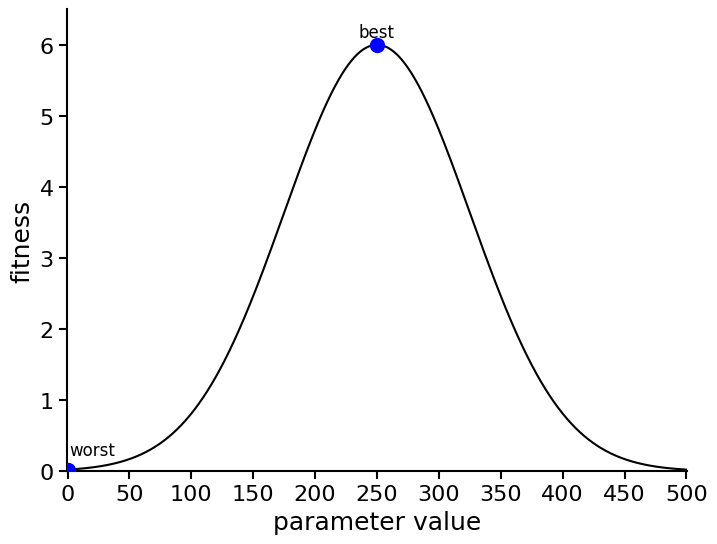
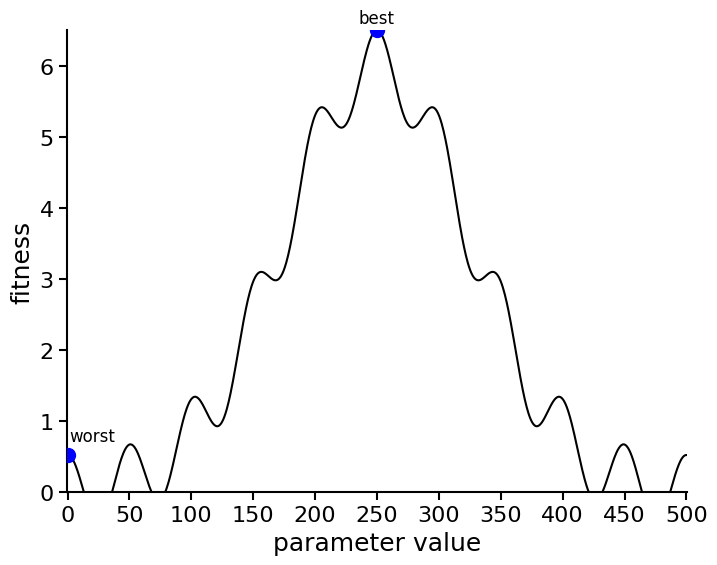
ガウス関数にコサインを混ぜた評価関数を定義

diff --git a/DrawFunc.py b/DrawFunc.py
@@ -135,6 +135,82 @@ def plot_gauss_func_two_peak():
     return
 
 
+def plot_gaussian_add_cosine():
+    # 1. パラメータの設定
+    mu = 250        # 平均 (μ)
+    sigma = 75      # 標準偏差 (σ)
+    f = 0.02         # 周波数
+    x_min, x_max = 0, 500  # 定義域 (x軸の範囲)
+    y_min, y_max = 0, 6    # 値域 (y軸の範囲)
+    
+    # ガウス関数のピーク（高さ）の設定
+    # 注意: 通常の確率密度関数のピークは約0.008と低いため、
+    # 指定された値域[0, 6]で見えるようにピークを6.0に設定します。
+    amplitude = 6.0 
+
+    # 2. データの生成
+    x = np.linspace(x_min, x_max, 1000)
+    
+    # ガウス関数の計算: f(x) = A * exp( - (x - μ)^2 / (2σ^2) )
+    y = amplitude * np.exp(-((x - mu)**2) / (2 * sigma**2)) + 0.5 * np.cos(2 * np.pi * f * x)
+
+    # 4. プロット設定
+    fig, ax = plt.subplots(figsize=(8, 6)) # fig, ax を取得するように変更
+    
+    # 4. 指定された点の計算 (x=250, x=0)
+    points_x = [250, 0]
+    points_y = [amplitude * np.exp(-((px - mu)**2) / (2 * sigma**2))+ 0.5 * np.cos(2 * np.pi * f * px) for px in points_x]
+    
+    # ガウス関数の描画
+    ax.plot(x, y, color='black', linewidth=1.5, label='Gaussian Curve')
+    
+    # 点のプロット (赤色、サイズ大きめ)
+    ax.scatter(points_x, points_y, color='blue', s=100, zorder=5, label='Points')
+    
+    # 点の座標を表示
+    
+    ax.text(points_x[0], points_y[0] + 0.1, f'best', ha='center', fontsize=12)
+    ax.text(points_x[1]+20, points_y[1] + 0.2, f'worst', ha='center', fontsize=12)
+
+    # 軸（枠線）の太さを変える
+    axis_width = 1.5  # 太さの設定
+    for spine in ax.spines.values():
+        spine.set_linewidth(axis_width)
+
+    # メモリ（数字）のフォントサイズと、メモリ自体の太さを変える
+    ax.tick_params(axis='both', which='major', labelsize=16, width=axis_width, length=6)
+
+    # x軸: 0, 100, 200, 300, 400, 500 (np.arangeは終了値を含まないので+1します)
+    ax.set_xticks(np.arange(0, 501, 50)) 
+    
+    # y軸: 0, 1, 2, 3, 4, 5, 6
+    ax.set_yticks(np.arange(0, 7, 1))
+    
+    # 軸の範囲設定
+    ax.set_xlim(x_min-0.5, x_max+0.5)
+    ax.set_ylim(y_min, y_max+0.5)
+    
+    # グリッドを消す
+    ax.grid(False)
+    
+    # ラベル等の設定
+    ax.set_title("")
+    ax.set_xlabel('parameter value',fontsize=18)
+    ax.set_ylabel('fitness',fontsize=18)
+    plt.gca().spines['right'].set_visible(False)
+    plt.gca().spines['top'].set_visible(False)
+    
+    # 4. グラフの保存と表示
+    save_dir = "for_slide"
+    if not os.path.exists(save_dir):
+        os.makedirs(save_dir)
+        
+    filename = os.path.join(save_dir, "gaussian_plot_styled.png")
+    plt.savefig(filename,bbox_inches='tight')
+    print(f"グラフを {filename} として保存しました。")
+    
+    plt.show()
 if __name__ == "__main__":
     plot_gauss_function()
     plot_gauss_func_two_peak()
+    plot_gaussian_add_cosine()

diff --git a/backend/engine/evaluate.py b/backend/engine/evaluate.py
@@ -321,6 +321,58 @@ def evaluate_fitness_gaussian_two_peak(
         # individual["fitness"] = (max(0, min(10, total_score)))  # 範囲外は補正
         individual['fitness'] = total_score
 
+def evaluate_fitness_gaussian_cos(
+    population: List[dict],
+    target_params: List[float] = TARGET_PARAMS,
+    sigma: float = 75.0,
+    frequency: float = 0.02,
+    param_keys: List[str] = None,
+    evaluate_population: List[dict] = None,
+    noise_is_added: bool = False
+):
+    """
+    param_keysで指定した各パラメータがtarget_paramsの値に近いほど高評価（正規分布に基づく）
+    id_listが指定された場合は、そのID（chromosomeId）を持つ個体のみfitnessを付与
+    統合手法は平均値
+    """
+    if param_keys is None:
+        param_keys = ["fmParamsList.operator1.frequency"]
+    if evaluate_population is None:
+        evaluate_population = population
+
+    for individual in population:
+        if not isinstance(individual, dict):
+            print("警告: individualがdict型ではありません:", individual)
+            continue
+        if not individual in evaluate_population:
+            continue
+
+        scores = []
+        for key, target in zip(param_keys, target_params):
+            # ドット区切りでアクセス
+            val = individual
+            for k in key.split('.'):
+                val = val.get(k, None)
+                if val is None:
+                    break
+            if val is None:
+                scores.append(0)
+            else:
+                # 正規分布の確率密度関数（最大値1）
+                score = np.exp(-((float(val) - target) ** 2) / (2 * sigma ** 2)) + 0.5 * np.cos(2 * np.pi * frequency * float(val))
+                # score = np.exp(-(float(val) ** 2) / (2 * (sigma ** 2)))
+                scores.append(score)
+
+        # 統合
+        total_score = sum(scores)  if scores else 0
+        if noise_is_added:
+            total_score = add_noise(value=total_score, scale=1.0)  # ノイズを加えて
+
+        # total_score = total_score * 10  # 0～10にスケール
+        # total_score = int(round(total_score))  # 0～10の整数に丸める
+        # individual["fitness"] = (max(0, min(10, total_score)))  # 範囲外は補正
+        individual['fitness'] = total_score
+
 
 # 最も適応度の高い個体と最も低い個体を取得
 def get_best_and_worst_individuals(population: List[dict]):
